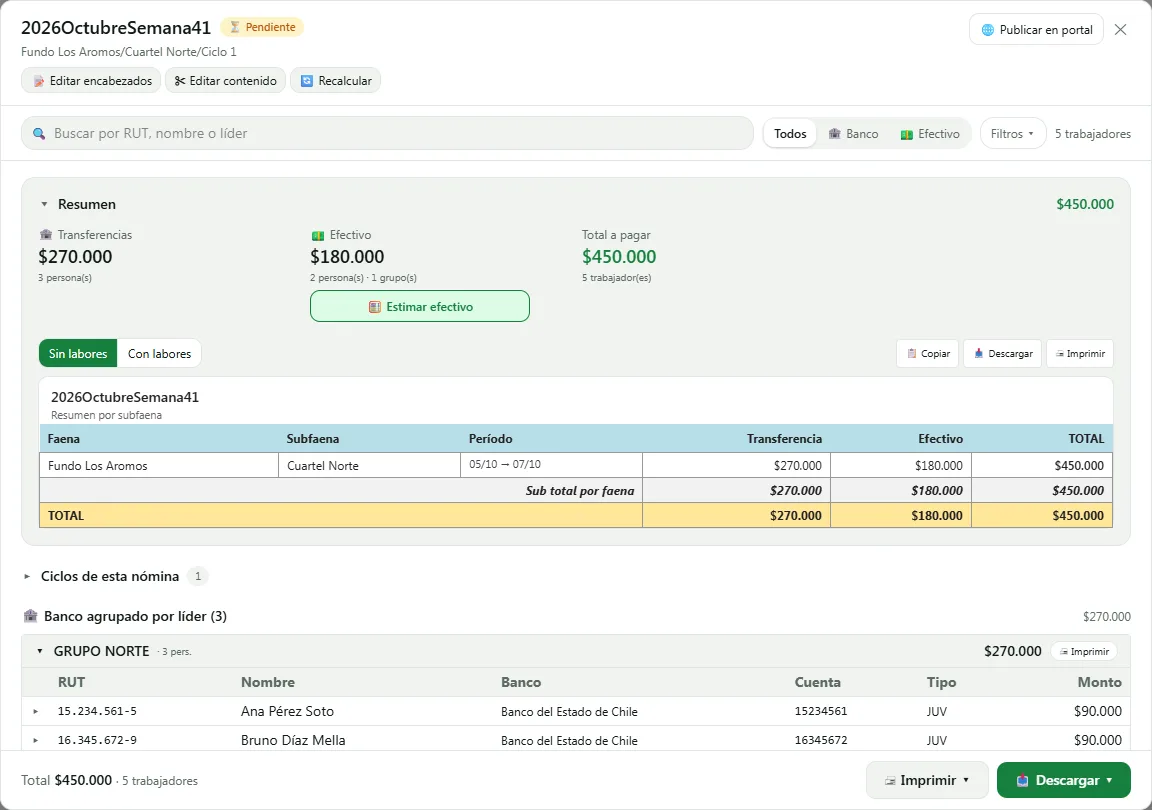
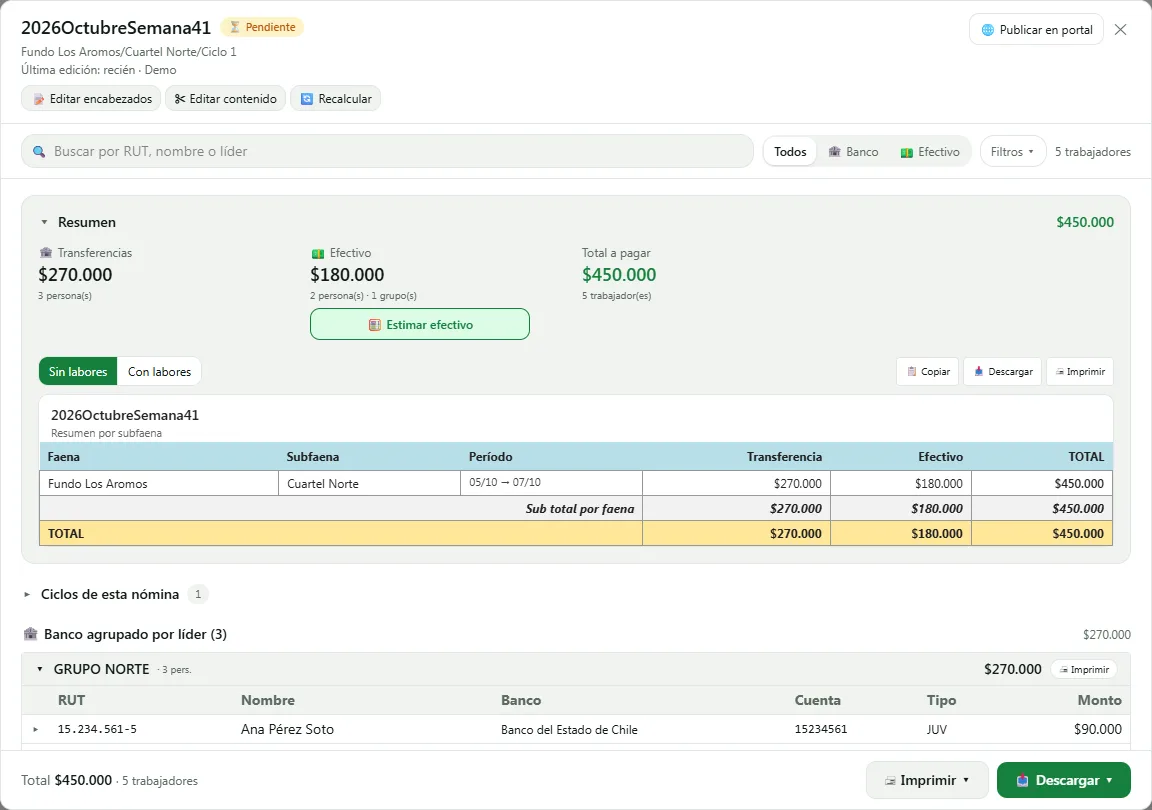
payrollLastEdit

diff --git a/src/utils/payrollDetail.test.js b/src/utils/payrollDetail.test.js
@@ -1,6 +1,7 @@
 import { describe, it, expect } from "vitest";
 import {
   advancesAndBonusesOf,
+  lastEditLabel,
   payrollLeadersOf,
   filterPayrollItems,
   detailSummariesOf,
@@ -349,5 +350,29 @@ describe("advancesAndBonusesOf", () => {
     const r = advancesAndBonusesOf(items, undefined);
     expect(r.advances.map((x) => [x.date, x.note])).toEqual([["", ""], ["", ""]]);
     expect(advancesAndBonusesOf([], []).advanceTotal).toBe(0);
+  });
+});
+
+describe("lastEditLabel", () => {
+  const now = new Date("2026-11-05T15:40:00-03:00");
+  const at = (iso) => ({ seconds: Math.floor(Date.parse(iso) / 1000), nanoseconds: 0 });
+
+  it("dice cuándo se editó y quién", () => {
+    const payroll = { updatedAt: at("2026-11-05T15:35:00-03:00"), updatedByName: "Ana" };
+    expect(lastEditLabel(payroll, now)).toBe("Última edición: hace 5 min · Ana");
+  });
+
+  it("sin quién, solo cuándo; desde la semana, la fecha", () => {
+    expect(lastEditLabel({ updatedAt: at("2026-10-20T09:00:00-03:00") }, now)).toBe("Última edición: 20-10-2026");
+  });
+
+  it("acepta un Timestamp de Firestore", () => {
+    const payroll = { updatedAt: { toMillis: () => Date.parse("2026-11-05T13:40:00-03:00") }, updatedByName: "demo@terra.test" };
+    expect(lastEditLabel(payroll, now)).toBe("Última edición: hace 2 h · demo@terra.test");
+  });
+
+  it("sin updatedAt, null", () => {
+    expect(lastEditLabel({ updatedByName: "Ana" }, now)).toBeNull();
+    expect(lastEditLabel(null, now)).toBeNull();
   });
 });

diff --git a/src/utils/payrollDetail.js b/src/utils/payrollDetail.js
@@ -1,9 +1,12 @@
 // Cálculos del detalle de una nómina: los líderes y el filtro de sus items,
 // los resúmenes por grupo, por subfaena y por labor, el período de sus
-// ciclos, las filas de la tabla del resumen y lo marcado para sacar.
+// ciclos, las filas de la tabla del resumen, lo marcado para sacar y la
+// última edición.
 import { isCashBank } from "./banks";
 import { normalizeLeader } from "./payroll";
 import { matchesSearchQuery } from "./textSearch";
+import { millisOf } from "./syncedList";
+import { lastSeenLabel } from "./userAccounts";
 
 // Líderes únicos en la nómina (para el filtro de grupo).
 export function payrollLeadersOf(items) {
@@ -361,4 +364,14 @@ export function advancesAndBonusesOf(items, advances = []) {
   const advanceRows = rowsOf("anticipoApplications");
   const bonusRows = rowsOf("bonoApplications");
   return { advances: advanceRows, bonuses: bonusRows, advanceTotal: sum(advanceRows), bonusTotal: sum(bonusRows) };
+}
+
+// "Última edición: hace 5 min · Ana": cuándo se escribió la nómina por última
+// vez (`updatedAt`, como "Visto por última vez" en Usuarios) y quién
+// (`updatedByName`, si lo tiene). Sin `updatedAt`, null.
+export function lastEditLabel(payroll, now = new Date()) {
+  const ms = millisOf(payroll?.updatedAt);
+  if (!ms) return null;
+  const who = payroll.updatedByName ? ` · ${payroll.updatedByName}` : "";
+  return `Última edición: ${lastSeenLabel(new Date(ms), now)}${who}`;
 }

diff --git a/src/services/payrollsService.js b/src/services/payrollsService.js
@@ -2,6 +2,7 @@ import { doc, serverTimestamp } from "firebase/firestore";
 import { updateDoc, writeBatch } from "./readMeter";
 import { db, auth } from "../firebase";
 import { createAdditiveService, createService } from "./firestoreBase";
+import { signerName } from "./signer";
 import { workdaysService, listWorkdaysByCycles } from "./index";
 import { isCashBank } from "../utils/banks";
 import { bankFormatOf } from "../utils/bankFormats";
@@ -17,8 +18,17 @@ export const PAYROLL_STATUSES = [
   { value: "paid", label: "Pagada" },
 ];
 
-// Ver `listPayrolls` en payrollsList.js.
-export const payrollsService = createAdditiveService("payroll", "payrolls");
+// Ver `listPayrolls` en payrollsList.js. Cada escritura firma con el nombre de
+// quien la hace (`updatedByName`, `signerName`), que el detalle muestra junto
+// a `updatedAt`.
+const payrollsBase = createAdditiveService("payroll", "payrolls");
+const signed = (data) => ({ ...data, updatedByName: signerName() });
+export const payrollsService = {
+  ...payrollsBase,
+  create: (data, opts) => payrollsBase.create(signed(data), opts),
+  update: (id, data, opts) => payrollsBase.update(id, signed(data), opts),
+  upsert: (id, data, opts) => payrollsBase.upsert(id, signed(data), opts),
+};
 
 // Configuración compartida de la nómina, en un único doc `payrollConfig/main`.
 export const payrollConfigService = createService("payrollConfig", "payrollConfig");

diff --git a/src/contexts/AuthProvider.jsx b/src/contexts/AuthProvider.jsx
@@ -4,6 +4,7 @@ import { doc } from "firebase/firestore";
 import { getDoc } from "../services/readMeter";
 import { auth, db } from "../firebase";
 import { rememberBirthday, userPrefsService } from "../services/userPrefsService";
+import { setSignerAlias } from "../services/signer";
 import { accessOf, visitDue } from "../utils/userAccounts";
 import { AuthContext, ROLES } from "./AuthContext";
 
@@ -35,6 +36,7 @@ export function AuthProvider({ children }) {
         try {
           const profile = await loadProfile(fbUser);
           setUser(profile);
+          setSignerAlias(profile.alias);
           rememberBirthday(profile.birthday);
           if (profile.access !== "none") {
             lastVisitRef.current = Date.now();
@@ -43,9 +45,11 @@ export function AuthProvider({ children }) {
         } catch (e) {
           console.error("Failed to load profile", e);
           setUser({ uid: fbUser.uid, email: fbUser.email, role: ROLES.SUPERVISOR, access: "ok" });
+          setSignerAlias("");
         }
       } else {
         setUser(null);
+        setSignerAlias("");
       }
       setLoading(false);
     });
@@ -98,6 +102,7 @@ export function AuthProvider({ children }) {
     const clean = String(alias || "").trim();
     await userPrefsService.saveAlias(user.uid, clean);
     setUser((u) => (u ? { ...u, alias: clean } : u));
+    setSignerAlias(clean);
   };
 
   return (

diff --git a/src/screens/payroll/PayrollDetailModal.jsx b/src/screens/payroll/PayrollDetailModal.jsx
@@ -23,6 +23,7 @@ import {
   subfaenaSummaryOf,
   cyclesPeriodOf,
   summaryCycleName,
+  lastEditLabel,
 } from "../../utils/payrollDetail";
 import { fmtCurrency } from "../../utils/format";
 import { EditCyclesModal } from "./EditCyclesModal";
@@ -132,6 +133,7 @@ export function PayrollDetailModal({ payroll, cycles, cycleStats = {}, faenas, s
   const detailSummaries = detailSummariesOf(allGroups, payroll.cycleDetails);
 
   const cycleDetails = payroll.cycleDetails || [];
+  const lastEdit = lastEditLabel(payroll);
 
   const { snapshot, snapshotLoading, reload: reloadSnapshot } = usePayrollSnapshot({ payroll });
   // Después de editar la nómina, el detalle se arma con la nómina y el JSON
@@ -310,6 +312,11 @@ export function PayrollDetailModal({ payroll, cycles, cycleStats = {}, faenas, s
               {paymentDates(payroll).length > 0 && (
                 <p className="mt-0.5 text-xs tabular-nums text-[var(--color-muted)]">
                   {paymentDates(payroll).map((d) => `${d.label} ${d.date}`).join(" · ")}
+                </p>
+              )}
+              {lastEdit && (
+                <p className="mt-0.5 truncate text-xs text-[var(--color-muted)]" title={lastEdit}>
+                  {lastEdit}
                 </p>
               )}
             </div>

diff --git a/src/services/signer.js b/src/services/signer.js
@@ -1,0 +1,14 @@
+import { auth } from "../firebase";
+
+// El nombre con que firma quien tiene la sesión lo que guarda: su alias o, si
+// no tiene, su correo, igual que `displayName` de AuthContext. `AuthProvider`
+// fija el alias al cargar el perfil y al cambiarlo.
+let signerAlias = "";
+
+export function setSignerAlias(alias) {
+  signerAlias = String(alias || "").trim();
+}
+
+export function signerName() {
+  return signerAlias || auth.currentUser?.email || null;
+}

diff --git a/docs/screens/payroll.md b/docs/screens/payroll.md
@@ -183,4 +183,5 @@ Misma regla que achicarla, al revés: **la nómina tiene que quedar como si se h
 - **Una acción principal según el estado** ("✓ Marcar pagada", o "💵 Pagar efectivo" si las transferencias ya salieron; una nómina pagada no lleva) y el resto en el menú ⋯ (`components/RowMenu.jsx`, el mismo de Cheques y pagos): solo transferencias, revertir transferencias, marcar como no pagada, mover a Diferencias, renombrar y eliminar (con cascade que limpia workdays y restaura anticipos).
 - Eliminar se ve siempre en el menú: apagado, dice qué hay que hacer antes.
 - Toda la fila (en el teléfono, la tarjeta) abre el detalle, que es donde están las descargas. La fecha de creación va bajo el nombre y el efectivo que falta entregar, bajo el estado. El día en que se marcó pagada (`paidAt`) o, en un pago en dos tiempos, el de las transferencias y el del pago final, van en una sola línea en la última columna, junto a las acciones; en el teléfono, bajo el estado de la tarjeta. El encabezado del detalle repite esas fechas.
+- **La última edición** va en el encabezado del detalle, bajo esas fechas (`lastEditLabel`, `utils/payrollDetail.js`): cuándo se escribió la nómina por última vez (`updatedAt`, como "Visto por última vez" en Usuarios) y quién (`updatedByName`). Cuenta toda escritura de `payrollsService`: generarla, recalcularla, sacar o agregar a una persona, renombrarla, pagarla o marcar quién cobró el efectivo. Una nómina escrita antes de que existiera `updatedByName` muestra solo cuándo.
 - El menú ⋯ sigue al botón al desplazar: tocar una fila que se ve a medias desplaza la lista, y si el menú se cerrara con eso no se podría abrir.

diff --git a/src/screens/help/guides/nomina.md b/src/screens/help/guides/nomina.md
@@ -65,7 +65,7 @@ Cada fila muestra el estado, cuántas personas, lo de banco, lo de efectivo y el
 - **Eliminar**: borra la nómina, libera sus días (vuelven a quedar pendientes) y devuelve los anticipos. Si no se puede, dice qué hacer antes.
 
 ## El detalle de una nómina
-<!-- preguntas: ver el detalle de la nómina; cuánto efectivo tengo que sacar; billetes y monedas; resumen por subfaena; copiar el resumen de la nómina; total bruto de la nómina; cuánto se produjo antes de anticipos -->
+<!-- preguntas: ver el detalle de la nómina; cuánto efectivo tengo que sacar; billetes y monedas; resumen por subfaena; copiar el resumen de la nómina; total bruto de la nómina; cuánto se produjo antes de anticipos; quién editó la nómina; cuándo se modificó la nómina -->
 
 ![El detalle de una nómina](help/nomina/06-detalle.webp)
 
@@ -73,6 +73,7 @@ Cada fila muestra el estado, cuántas personas, lo de banco, lo de efectivo y el
 - **Estimar efectivo**: cuántos billetes y monedas sacar para armar los sobres, y cuánto lleva cada persona.
 - La tabla del resumen, por subfaena (**Sin labores**) o por subfaena y labor (**Con labores**), con **Copiar**, **Descargar** e **Imprimir**.
 - Más abajo, los ciclos de la nómina y las personas por líder, de banco y de efectivo.
+- Arriba, bajo el nombre, cuándo se editó por última vez y quién.
 - Arriba, **Editar contenido** y **Recalcular** sirven para corregirla (ver la guía [Corregir una nómina](/ayuda/corregir-nomina)).
 
 ## Descargar el archivo del banco

diff --git a/AGENTS.md b/AGENTS.md
@@ -186,6 +186,7 @@ Se consulta con `firebase firestore:databases:get hpdatabase`.
 - **Sin perfil, o con `disabled: true`, la cuenta no entra.** `user.access` vale `"none"` o `"disabled"` y `ProtectedRoute` muestra `NoAccess` con el correo de la cuenta, que es lo que necesita un admin para darle acceso desde Usuarios. Si leer el perfil falla, la app entra igual como usuario y las reglas deciden qué datos ve.
 - `AuthContext` guarda en el perfil el `email` de la cuenta y `lastSeenAt` (`userPrefsService.recordVisit`) al abrir la app y, con la app abierta, al volver a ella o usarla (cambiar de pestaña, un clic, una tecla), como mucho una vez cada 30 minutos (`visitDue`, `utils/userAccounts.js`). Un computador que despierta de la suspensión sigue con la página cargada y no vuelve a iniciar sesión, así que solo el arranque no alcanza. Es lo que muestra Usuarios: el navegador no puede listar las cuentas de Authentication.
 - **`AuthContext` vuelca el doc `users/{uid}` entero en `user`**, así que cualquier campo que se le agregue queda disponible en toda la app sin pagar una lectura extra.
+- **Un servicio que guarda quién escribió con un nombre legible usa `signerName()`** (`services/signer.js`): el alias o, sin alias, el correo, igual que `displayName`. `AuthProvider` le fija el alias al cargar el perfil y al cambiarlo. Lo usa `payrollsService` para `updatedByName`.
 
 ### Servicios
 

diff --git a/docs/data-model.md b/docs/data-model.md
@@ -145,6 +145,7 @@ Nómina = lote de pago. Agrupa `workdayIds` y `advanceIds`.
 | `advanceTotal` | number | |
 | `createdAt`, `createdBy` | ts, string? | |
 | `updatedAt`, `updatedBy` | ts, string? | toda escritura de `payrollsService` los pone. La copia que comparten Nómina y el Dashboard se pone al día con él (`listPayrolls`) |
+| `updatedByName` | string? | quién hizo la última escritura: su alias o, sin alias, su correo (`signerName`, `services/signer.js`). Toda escritura de `payrollsService` lo pone, y el detalle lo muestra con `updatedAt`. Las nóminas escritas antes no lo tienen |
 
 `PayrollItem` (embebido):
 - `rut` (el campo real en código es `rut`, no `workerRut` a pesar de lo que sugiere el nombre del doc — mismatch histórico), `workerId` (agregado en fase 2, ref estable al worker), `workerName`, `bankDetails`
